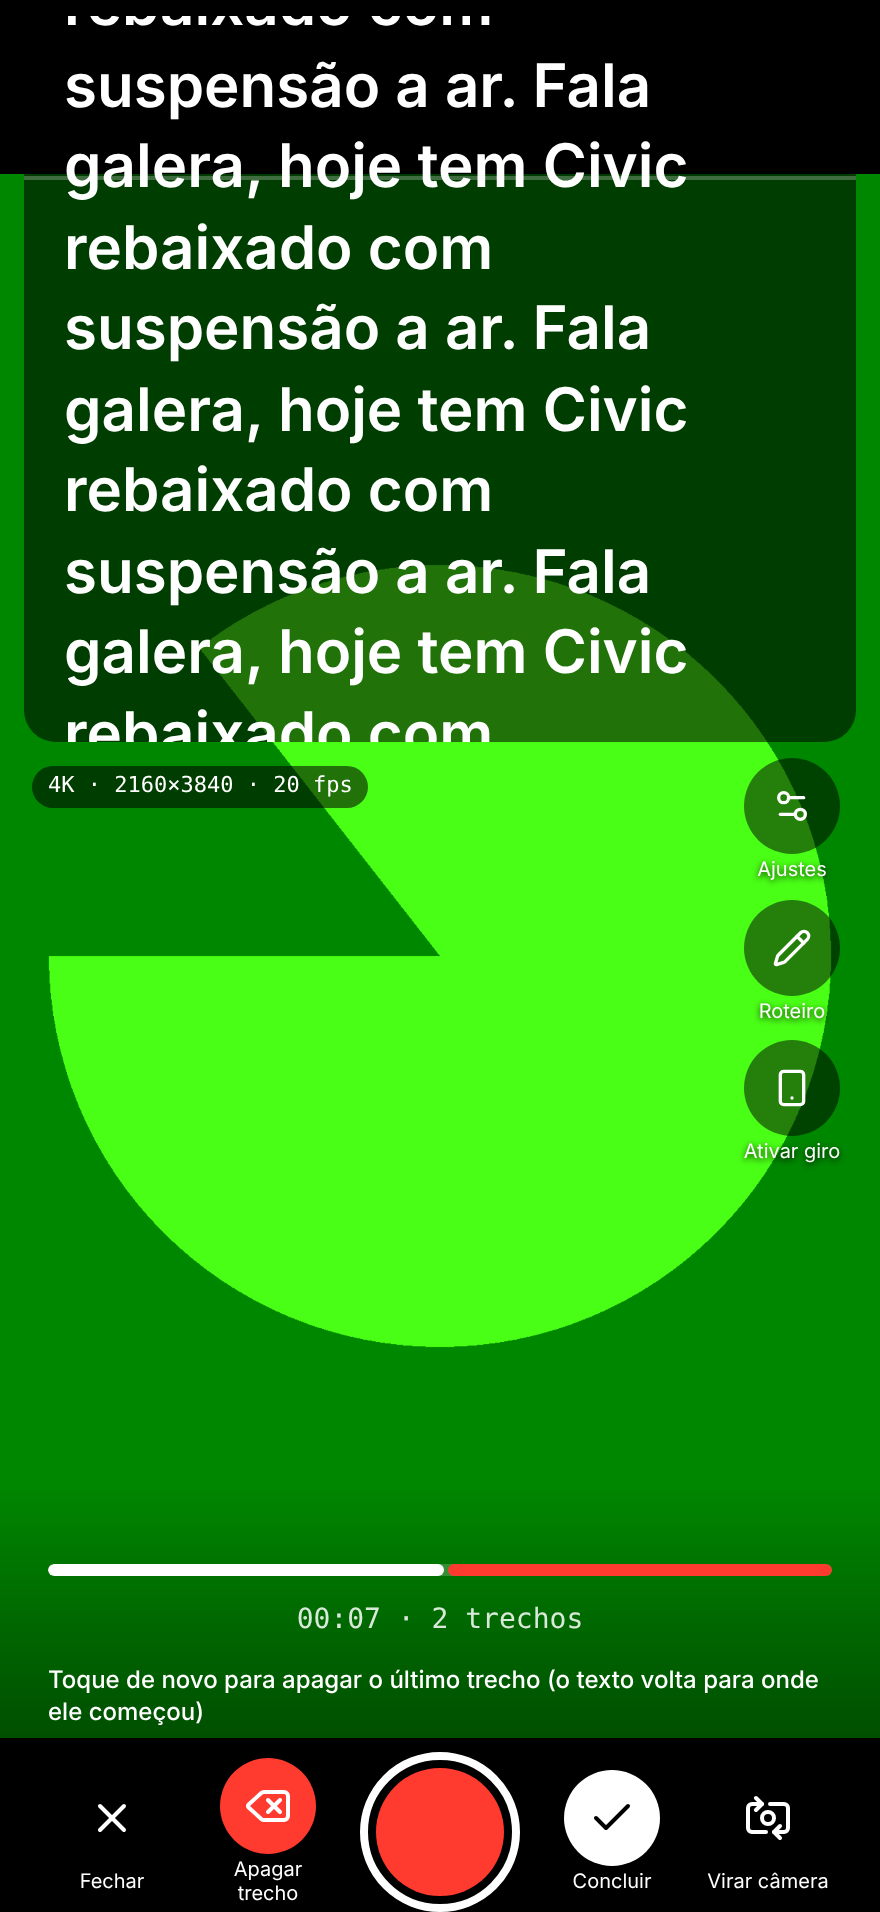
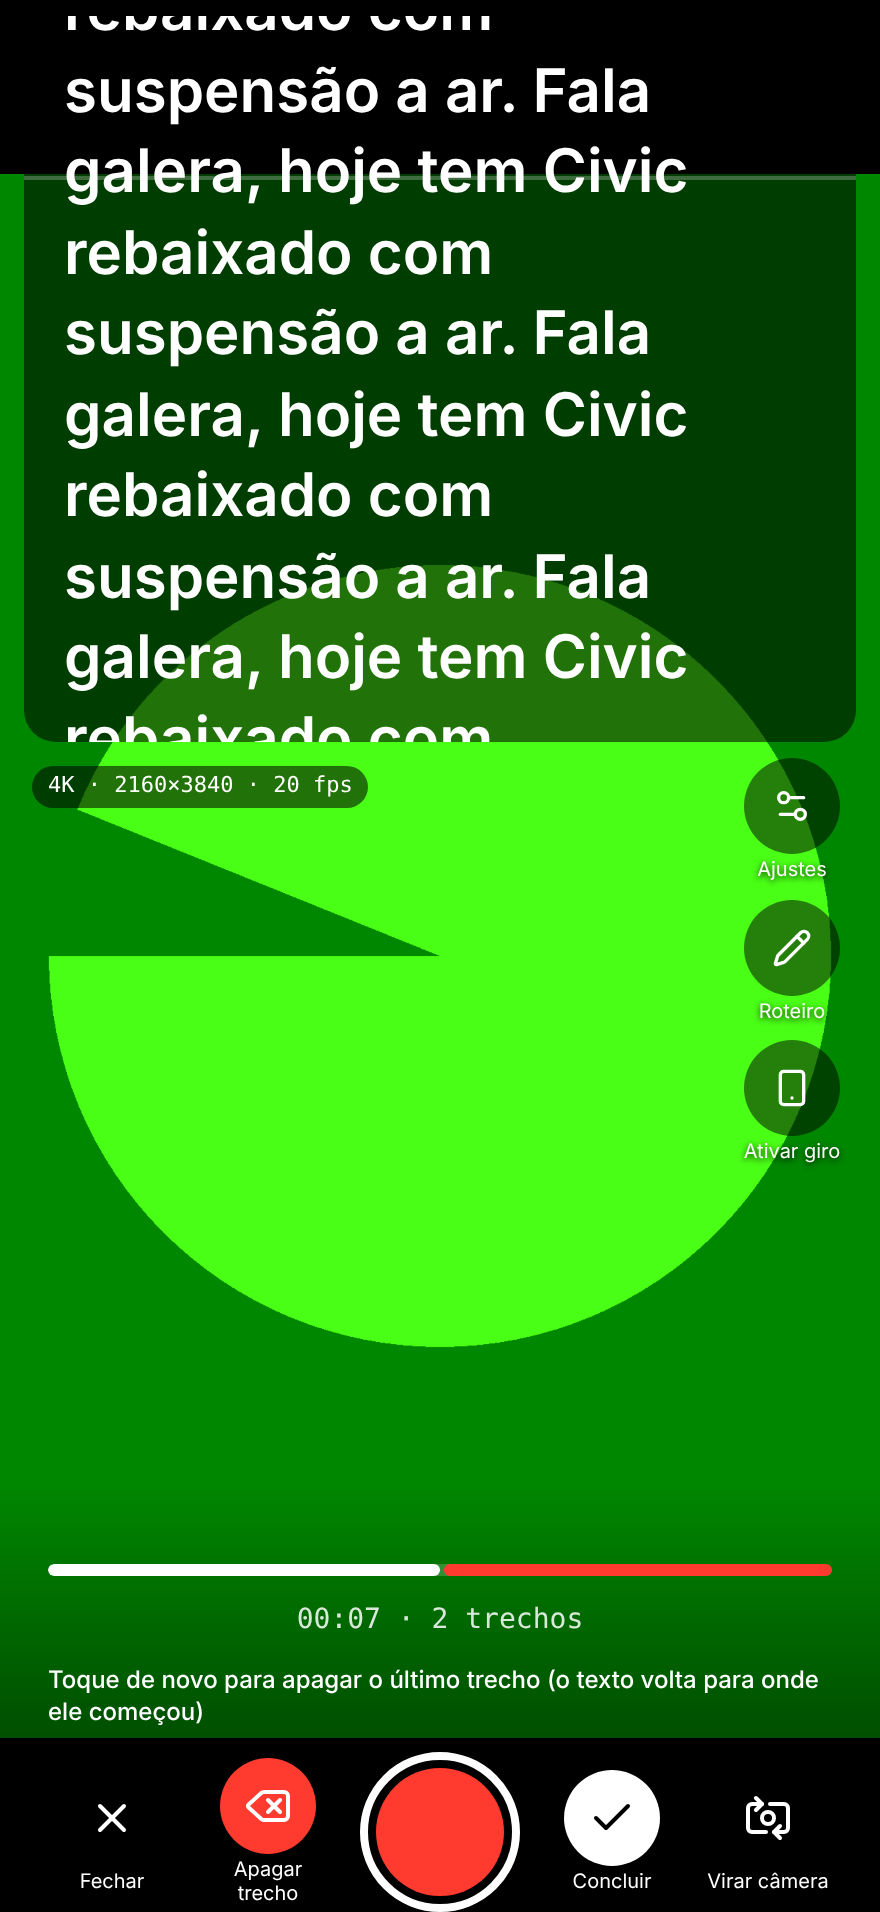
Teleprompter: no flipped frame when turning the camera
The mirror and the picture turn now change with the new camera's first
picture instead of on the tap, and the last picture stays on screen while
the camera switches.

Claude-Session: https://claude.ai/code/session_0171u1mNBnwSWvSmcMh16wpa

diff --git a/app/src/screens/Teleprompter.tsx b/app/src/screens/Teleprompter.tsx
@@ -469,11 +469,14 @@ function CameraPrompter({
   const side: PrompterSettings["side"] = pose === "left" || pose === "right" ? pose : (lastSide ?? settings.side);
   // the camera's picture as the phone hands it, and the frame made from it
   const [src, setSrc] = useState<{ w: number; h: number } | null>(null);
-  const srcWide = !!src && src.w > src.h;
-  const turn = pictureTurn(horizontal, srcWide, side, settings.facing);
+  // the camera whose picture is on screen: on "Virar câmera" the old one
+  // stays until the new one's first picture, and the mirror and the turn
+  // change with that picture, not before (else the old picture flips)
+  const [shown, setShown] = useState(settings.facing);
+  const shownRef = useRef(shown);
   const [size, setSize] = useState<{ w: number; h: number } | null>(null);
-  const live = useRef({ turn, size }); // read by the drawing loop
-  live.current = { turn, size };
+  const live = useRef({ horizontal, side, size }); // read by the drawing loop
+  live.current = { horizontal, side, size };
 
   // the camera, again whenever the side, the quality or the frame rate changes
   useEffect(() => {
@@ -522,11 +525,19 @@ function CameraPrompter({
     v.srcObject = cam.video;
     void v.play().catch(() => {});
     const on = () => v.videoWidth && setSrc({ w: v.videoWidth, h: v.videoHeight });
+    const facing: PrompterSettings["facing"] = cam.key.startsWith("user") ? "user" : "environment";
+    const ready = () => {
+      shownRef.current = facing; // the drawing loop turns this camera's picture from now on
+      setShown(facing);
+    };
+    if (v.readyState >= 2) ready();
     v.addEventListener("resize", on);
     v.addEventListener("loadedmetadata", on);
+    v.addEventListener("loadeddata", ready);
     return () => {
       v.removeEventListener("resize", on);
       v.removeEventListener("loadedmetadata", on);
+      v.removeEventListener("loadeddata", ready);
     };
   }, [cam]);
 
@@ -549,8 +560,11 @@ function CameraPrompter({
     const draw = () => {
       if (stop) return;
       raf = requestAnimationFrame(draw);
-      const { turn: t, size: sz } = live.current;
+      const { horizontal: hz, side: sd, size: sz } = live.current;
       if (!sz || v.readyState < 2 || !v.videoWidth) return;
+      // the old camera already stopped, the new one not here yet: the last picture stays
+      if ((v.srcObject as MediaStream | null)?.getVideoTracks()[0]?.readyState !== "live") return;
+      const t = pictureTurn(hz, v.videoWidth > v.videoHeight, sd, shownRef.current);
       if (c.width !== sz.w || c.height !== sz.h) {
         c.width = sz.w;
         c.height = sz.h;
@@ -719,7 +733,7 @@ function CameraPrompter({
     if (d && !d.moved && recording) setPaused((p) => !p);
   }
 
-  const front = settings.facing === "user";
+  const front = shown === "user";
   // Horizontal: the controls, the text and the frame turn to face whoever
   // holds the phone on its side.
   const turned = horizontal
